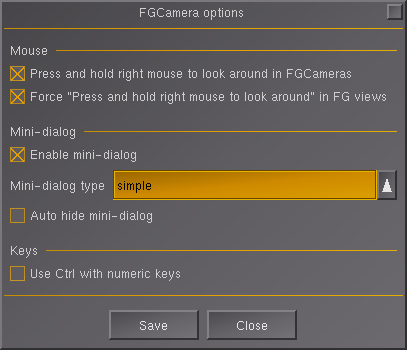
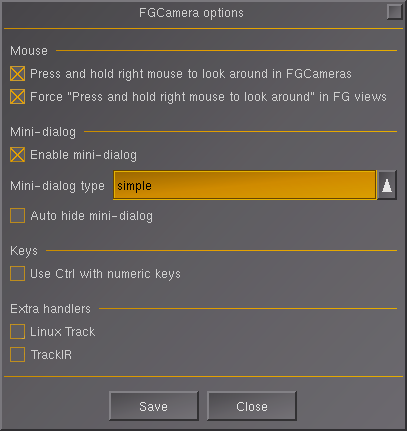
Update manual

diff --git a/Docs/manual.md b/Docs/manual.md
@@ -15,6 +15,7 @@ movement generator which can simulate any aircraft type (GA, Airliner etc).
 - add path to the addon in the Launcher application in 'Add-On' section **OR**
   run FlightGear with `--addon` option with path to FGCamera like
   `--addon="/myfolder/addons/fgcamera"`.
+
 # FlightGear configuration
 
 Start FlightGear. Go to menu `View -> FGCamera`. FGCamera default configuration
@@ -71,7 +72,7 @@ Clicking 'Options...' button you can define behavior of following options:
   left corner of the screen will display the mini-dialog. By default, this
   option is disable.
 * Key
-  * `Use Ctrl with numeric key` - By default, FGCamera overrides the default
+  * `Use Ctrl with numeric key` - by default, FGCamera overrides the default
   number key assignments, 0 to 9, using them to switch between cameras. This
   means you won't be able to use the number keys to control the aircraft, such
   as the 5 key to return the controls to neutral position, etc. Then you can
@@ -79,6 +80,10 @@ Clicking 'Options...' button you can define behavior of following options:
   held down. Then FlightGear's default number keys will work, and switching
   between cameras will be done with Ctrl-0 to Ctrl-9. By default, this option is
   disabled.
+* Extra handlers - these handlers are optional and most users don't need them,
+  so they are disabled by default. However, you can always enable them as needed.
+  * `Linux Track` - enable/disable Linux Track handler.
+  * `TrackIR` - enable/disable TrackIR handler.
 
 ## Mini-dialogs
 
